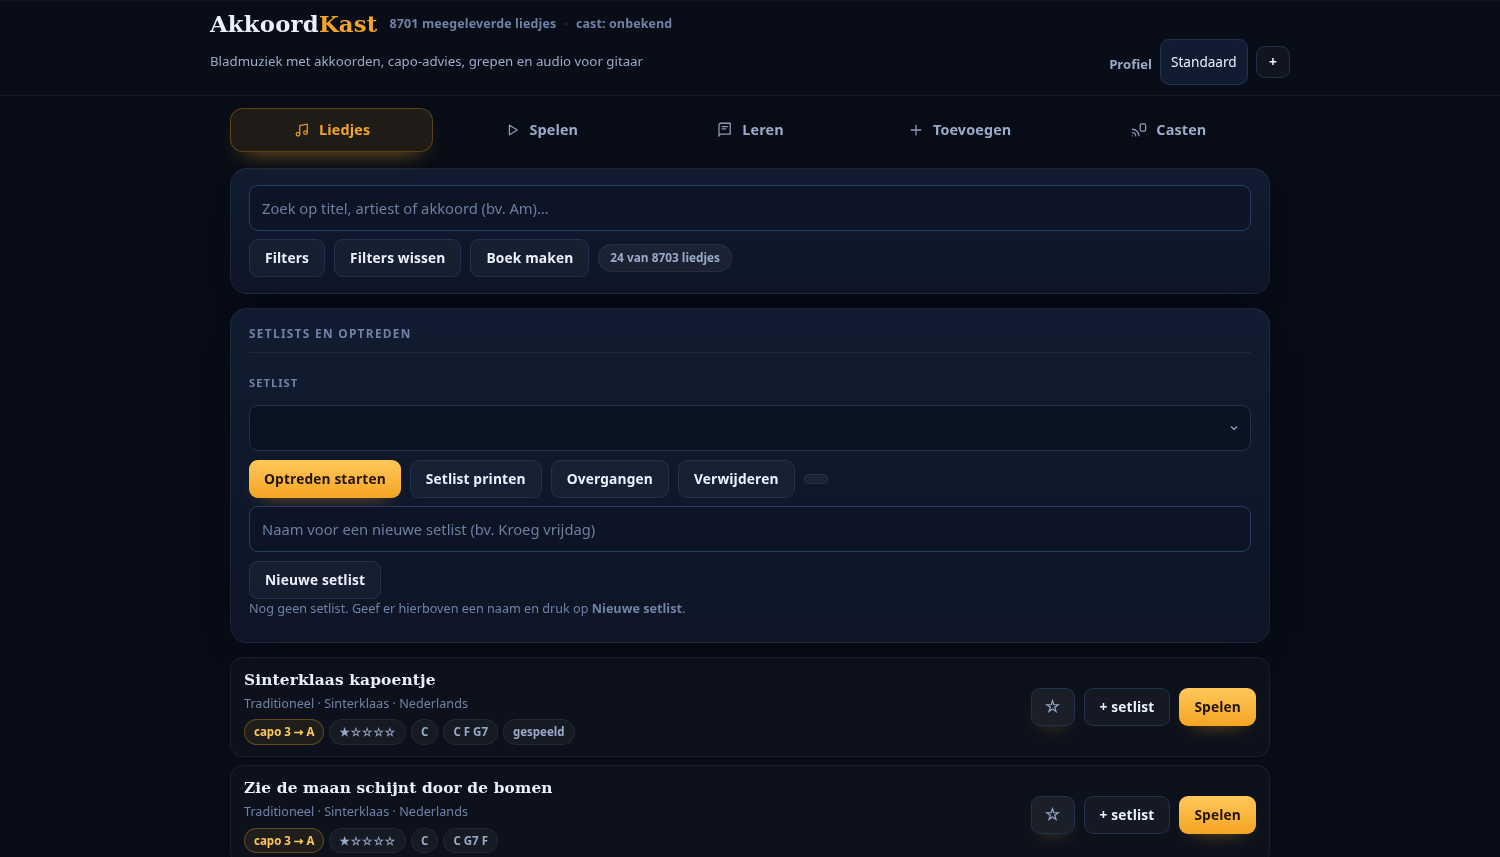
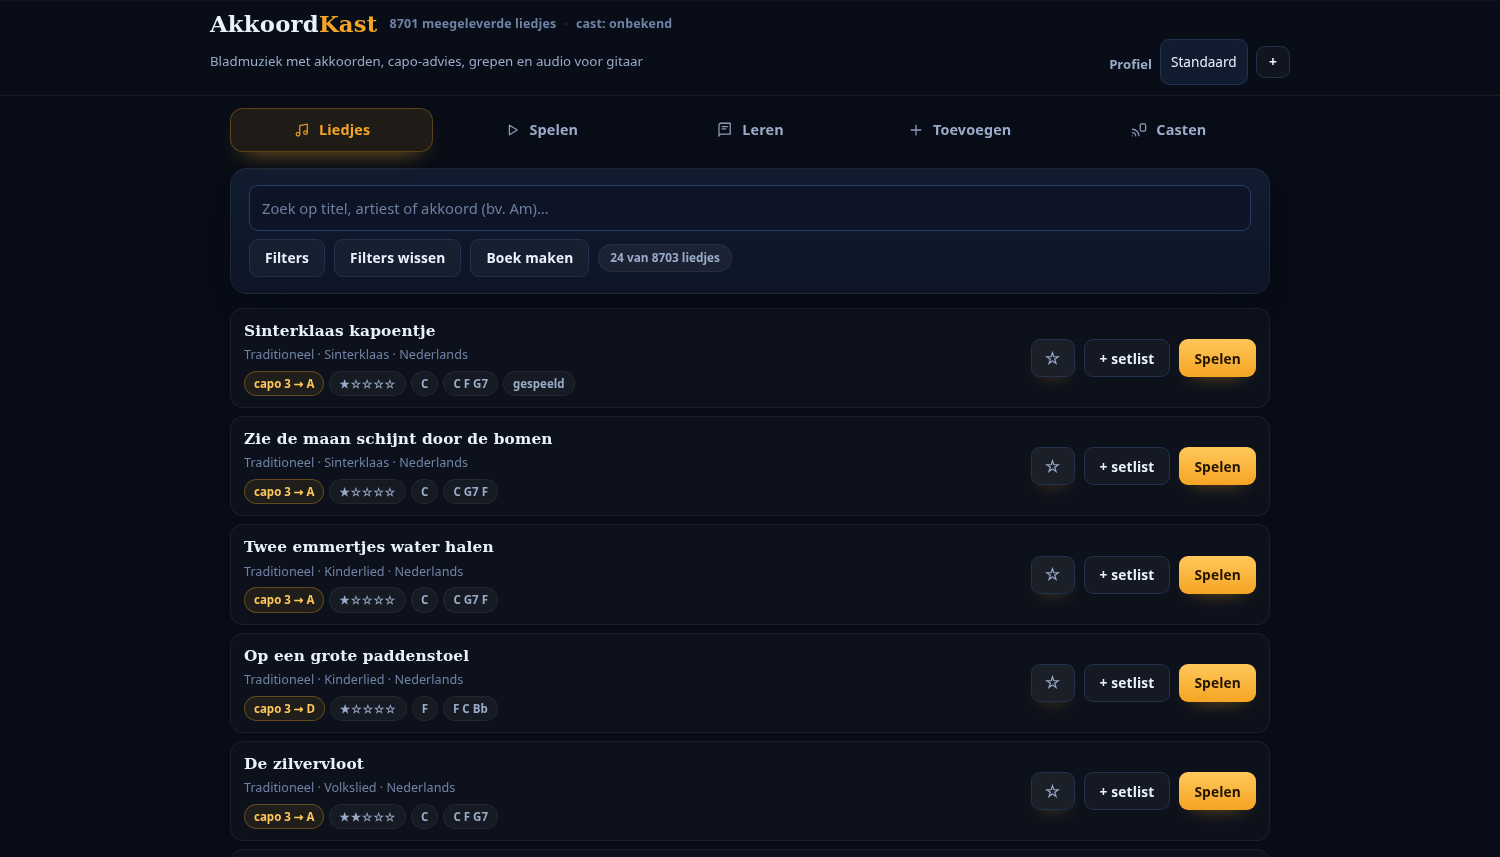
De liedjes staan bovenaan en de setlist eronder
De setlistkaart stond boven de liedjeslijst en duwde het belangrijkste van het tabblad
naar beneden. Nu staan de liedjes direct onder het zoeken met de setlist eronder, en zijn
de schermafbeeldingen opnieuw gemaakt. Dienst-cache naar v20 zodat iedereen de nieuwe
schil krijgt.

diff --git a/public/index.html b/public/index.html
@@ -746,6 +746,8 @@
       </div>
       <div class="melding" id="lijst-melding" hidden></div>
     </div>
+    <div class="liedlijst" id="liedlijst"></div>
+    <button class="knop zacht" id="meer-laden" hidden>Nog liedjes laden</button>
     <div class="kaart" id="setlist-kaart">
       <h3>Setlists en optreden</h3>
       <div class="rij">
@@ -766,8 +768,6 @@
       <div id="setlist-overgangen-lijst" class="scan-lijst" style="margin-top:8px"></div>
       <div class="melding" id="setlist-melding" hidden></div>
     </div>
-    <div class="liedlijst" id="liedlijst"></div>
-    <button class="knop zacht" id="meer-laden" hidden>Nog liedjes laden</button>
   </section>
 
   <!-- ------------------------------------------------ spelen -->

diff --git a/public/sw.js b/public/sw.js
@@ -1,7 +1,7 @@
 'use strict';
 // Service worker: alleen de app-schil cachen. /api/ en /media/ blijven altijd live,
 // zodat liedjes, audio en cast-status nooit uit een oude cache komen.
-const CACHE = 'akkoordkast-v19';
+const CACHE = 'akkoordkast-v20';
 const SCHIL = ['/', '/index.html', '/favicon.svg', '/manifest.webmanifest', '/icon-192.png'];
 
 self.addEventListener('install', e => {
